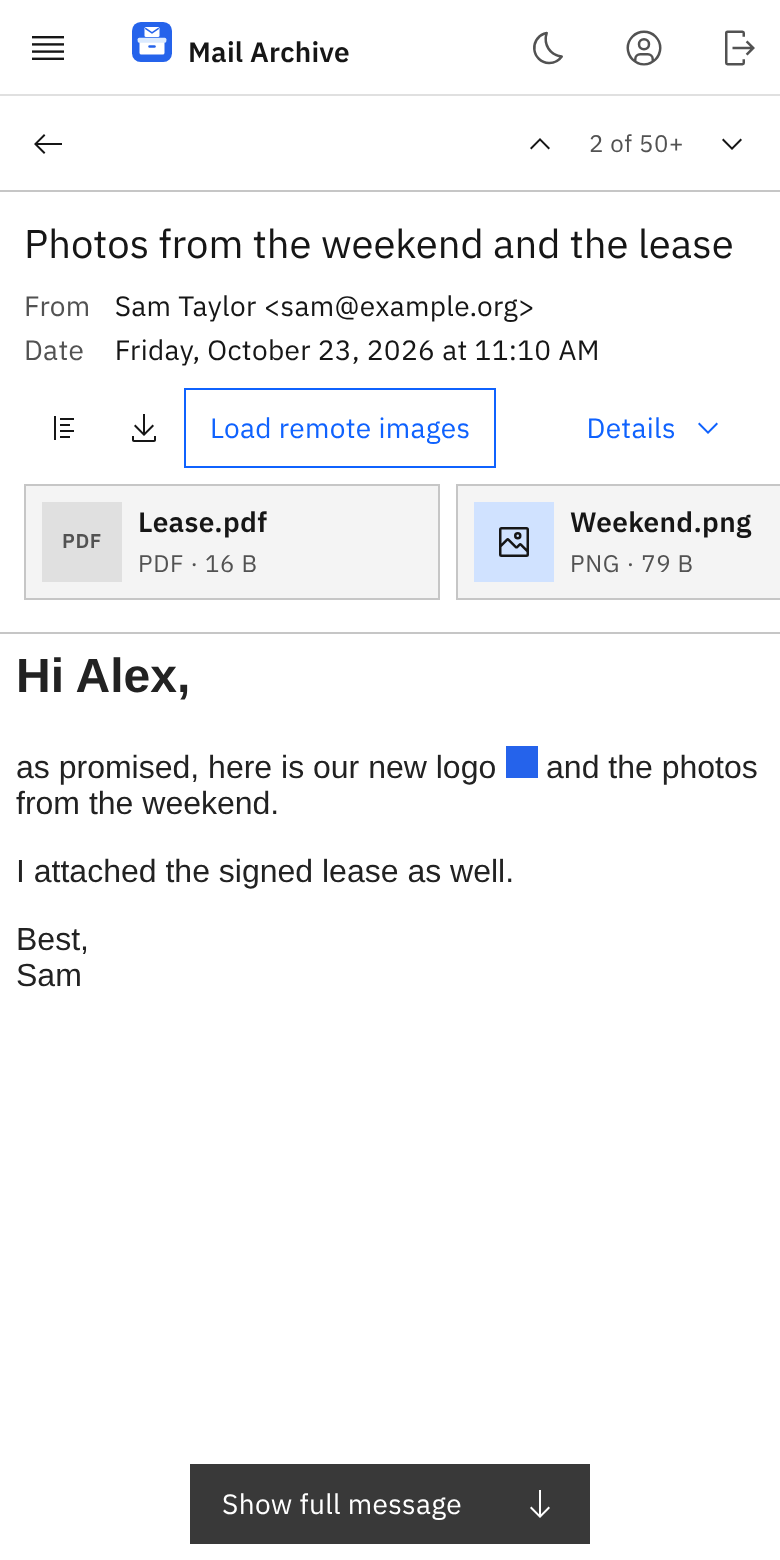
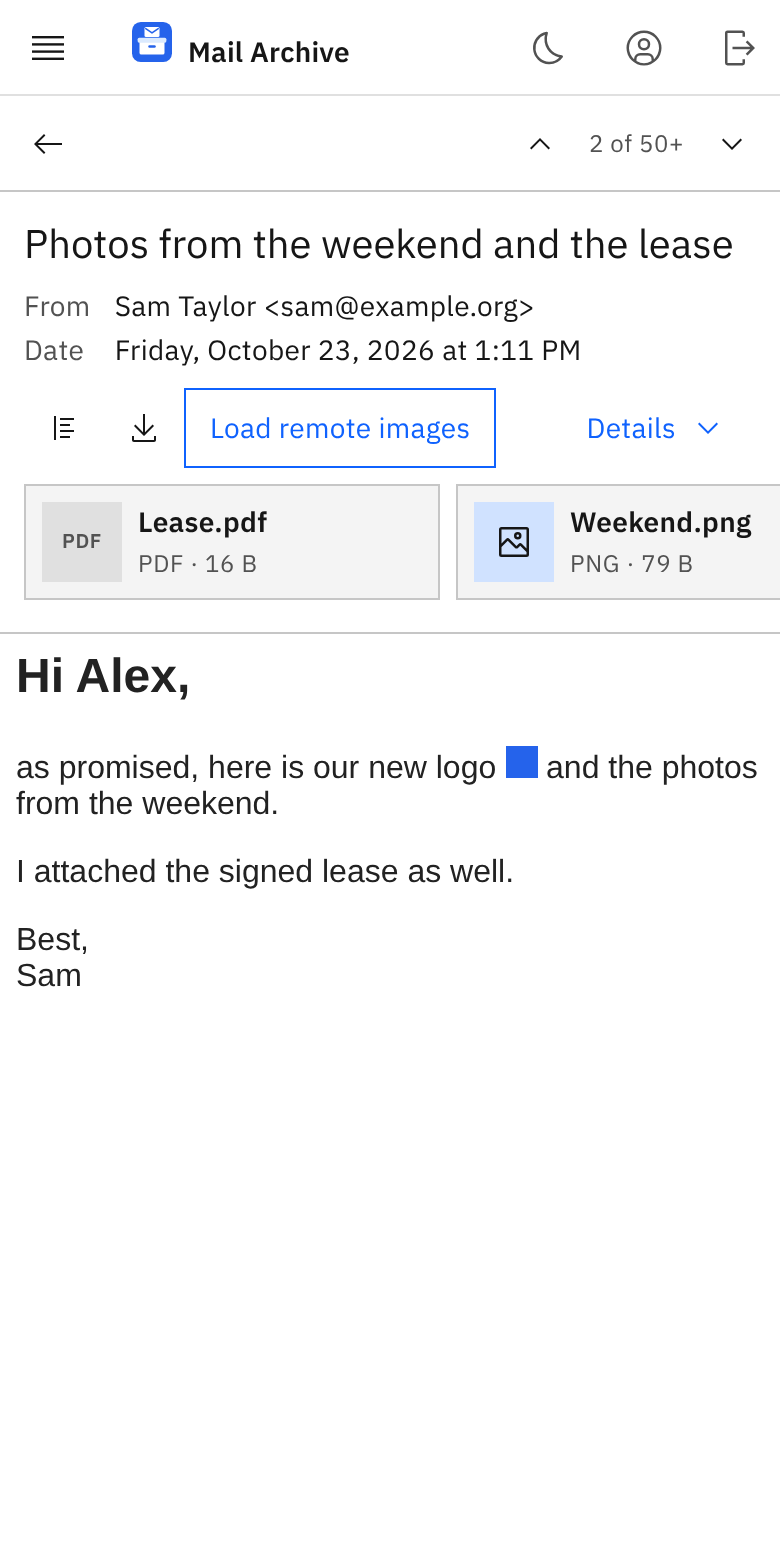
Docs: the auto-height mail frame and the Fetch Metadata guard (#204)
web-ui.md describes the frame that grows with the mail; security.md the
same-origin sandbox without scripts, the guard, the link blocker and the
residual risks; api.md the guard's 403. The mail screenshots lose the
"Show full message" hint.

Claude-Session: https://claude.ai/code/session_011ns8NYudpar28gs2YsWPd4

Changed region(s): [[0.2462, 0.9231, 0.7692, 1.0], [0.6769, 0.2154, 0.7692, 0.2462]]

diff --git a/docs/reference/api.md b/docs/reference/api.md
@@ -145,6 +145,25 @@ Requests with an API key need neither: the key is a header that a web page
 on another site cannot add, unlike a cookie, which the browser sends on its
 own. A body, where an endpoint reads one, must still be JSON.
 
+## Browser requests
+
+A browser says with its [Fetch Metadata](https://developer.mozilla.org/en-US/docs/Glossary/Fetch_metadata_request_header)
+headers what a request is for. Requests to `/api` answer `403`
+`{"error": "request not allowed from this context"}` when they are
+
+- a prefetch (`Sec-Purpose: prefetch`),
+- a navigation (`Sec-Fetch-Mode: navigate`, or `Sec-Fetch-Dest` `document`,
+  `iframe`, `frame`, `embed` or `object`), except a `GET` or `HEAD` of
+  `/api/messages/{id}/html`, `/api/messages/{id}/raw`,
+  `/api/messages/{id}/parts/{n}` and `/api/openapi.json`, or
+- for anything but a fetch (`Sec-Fetch-Dest` other than `empty`: an image,
+  a style sheet, a font and so on).
+
+The check comes first, so such a request writes no audit entry. It keeps an
+HTML mail, which runs with the app's origin, from reaching the API; see
+[HTML mail](./security#html-mail). Requests without these headers, from
+curl, scripts and API clients, are not affected.
+
 ## Audit log
 
 Searches, opened messages, downloads, logins and changes are recorded in the
@@ -187,7 +206,7 @@ See [`retention` and `hold`](./cli#retention) on the command line.
 | `GET /api/messages` | List or search messages, newest first. |
 | `GET /api/messages/{id}` | Headers, plain text, attachment list and every location (account, folder, UID, flags, `superseded`, `goneAt`, `lastSeenAt`). A superseded location is from before the folder's `UIDVALIDITY` changed (the server renumbered it); current locations come first. `goneAt` is when a [reconcile](../guide/syncing#reconcile) found the location missing on the server (`null` while it is there or before the folder was reconciled); `lastSeenAt` is when the server last listed it. Also `thread` (the thread key) and, for a reply, `inReplyTo` (the Message-ID it answers, without angle brackets). A location in an smtp account has an `envelope`: `mailFrom`, `rcptTo` (the original recipients, BCC included), `receivedAt`, `clientIp` and `helo`; other locations have `null`. `filled` is true for a location in an smtp account without an envelope: a [fill](#fills) copied it from IMAP or [`import --journal`](../guide/importing#into-an-smtp-account) imported it from files, so BCC recipients are unknown. `fill` names that fill and its mailbox, `{"id", "username", "host"}`; `import` names that import of files and its label, `{"id", "label"}`. Both are `null` for other locations, and when unknown. `retainUntil` is when the [retention period](./cli#retention) ends, per location and for the message (the latest over the user's locations); `null` when no rule covers a location, so it is kept for ever. Admins also get `onHold`. |
 | `GET /api/messages/{id}/conversation` | The conversation of the message; see below. `404` like `GET /api/messages/{id}`. |
-| `GET /api/messages/{id}/html[?images=1]` | The HTML body for a sandboxed iframe. Scripts are blocked; remote images only with `images=1`. Inline `cid:` images (PNG, JPEG, GIF, WebP; up to 10 MiB per message) are embedded as `data:` URLs; others become `data:,`. |
+| `GET /api/messages/{id}/html[?images=1]` | The HTML body for a sandboxed iframe. Scripts are blocked (`script-src 'none'`); the sandbox allows the same origin, so the web UI can size the frame to the mail, but never scripts. Remote images only with `images=1`. Inline `cid:` images (PNG, JPEG, GIF, WebP; up to 10 MiB per message) are embedded as `data:` URLs; others become `data:,`. Requests the frame makes to `/api` (images, links) are refused with `403`; see [Browser requests](#browser-requests). |
 | `GET /api/messages/{id}/raw` | The original `.eml`. |
 | `GET /api/messages/{id}/parts/{n}` | One attachment. PNG, JPEG, GIF and WebP are shown inline; everything else is a download. |
 

diff --git a/docs/reference/security.md b/docs/reference/security.md
@@ -208,17 +208,52 @@ applies.
 ### HTML mail
 
 HTML bodies are served for an iframe with a strict Content-Security-Policy
-and the `sandbox` directive: no scripts, no forms, no plugins, no access to
-the API. Remote content is blocked unless you click **Load remote images**
-for one message. Images embedded in the mail (`cid:`) are written into the
-HTML as `data:` URLs, so the frame makes no request to the server for them;
-`img-src` allows only `data:` (and `https:`/`http:` after **Load remote
-images**). Only PNG, JPEG, GIF and WebP are embedded, up to 10 MiB per
-message; SVG and every other type become an empty image. The frame has no
-origin of its own, so its requests carry no session cookie: the parts
-endpoint still requires a login and answers them with `401`.
+(`default-src 'none'; script-src 'none'`, no forms, no plugins) and the
+`sandbox` directive. Remote content is blocked unless you click **Load
+remote images** for one message. Images embedded in the mail (`cid:`) are
+written into the HTML as `data:` URLs, so the frame makes no request to the
+server for them; `img-src` allows only `data:` (and `https:`/`http:` after
+**Load remote images**). Only PNG, JPEG, GIF and WebP are embedded, up to
+10 MiB per message; SVG and every other type become an empty image.
 Attachments are served with `sandbox` as well; only common image types are
 shown inline, everything else is a download.
+
+The sandbox allows the frame the app's origin (`allow-same-origin`) but
+never scripts, in the iframe's attribute and in the response's own CSP,
+which also applies when the URL is opened on its own. The web UI needs the
+same origin to read the height of the mail and make the frame as tall as
+it, so the message scrolls as one page. No script runs in the mail: the
+sandbox has no `allow-scripts`, and `script-src 'none'` is a second layer.
+The accepted cost: if a browser bug ever ran script in the frame, it would
+run with the app's origin and could use the API.
+
+With the same origin, requests the mail itself makes to the server carry
+the session cookie: an image on the app's own address (after **Load remote
+images**, `https:` matches it) or a link to it. Nobody can read the
+answers, but they would leave audit entries in your name, and some open
+IMAP connections. Two layers stop them:
+
+- The server refuses `/api` requests by their
+  [Fetch Metadata](https://developer.mozilla.org/en-US/docs/Glossary/Fetch_metadata_request_header)
+  with `403`, before anything is done or logged: every request that is not
+  a fetch of the app (an image, style, font, prefetch and so on), and every
+  navigation (a link, a frame) except to the routes a browser opens:
+  `GET /api/messages/{id}/html`, `…/raw`, `…/parts/{n}` and
+  `/api/openapi.json`. Requests without these headers (scripts, API
+  clients) are not affected.
+- The web UI cancels clicks on links in the mail that point into the app.
+
+What remains:
+
+- The context menu's "Open link in new tab", or dragging a link to the
+  tab bar, cannot be intercepted. On the four routes above it can open or
+  download a message, a part or an `.eml` whose id (SHA-256) the mail's
+  author already knows. That writes an audit entry in your name and saves
+  a file to your device, but tells the author nothing.
+- Browsers without Fetch Metadata (Safari before 16.4) do not send the
+  headers, so the server cannot tell these requests apart: there, after
+  **Load remote images**, an image in the mail can make such requests, and
+  so can a link opened from the context menu.
 
 ### Login checks
 

diff --git a/docs/guide/web-ui.md b/docs/guide/web-ui.md
@@ -133,14 +133,12 @@ folder is compared once a day. See [Reconcile](./syncing#reconcile).
 A message scrolls as one unit: the reading pane next to the list, or the
 whole page on a phone. Header, conversation and text move together.
 
-HTML mail is shown in a sandboxed frame: no scripts, no forms, no plugins.
-The frame cannot grow with the mail, so it is as tall as the visible area.
-Scroll down until it fills that area; from there the mail scrolls inside
-it. Until then the frame does not react to the mouse or touch: scrolling
-over it moves the message, and **Show full message** at the bottom, or a
-click on the mail, scrolls it fully into view first. So the first click
-on a link or the start of a text selection in a mail that is not fully
-shown only scrolls; the next one works as usual.
+HTML mail is shown in a sandboxed frame that grows with the mail: no
+scripts, no forms, no plugins. The message scrolls as one page, and links
+in the mail work on the first click; they open in a new tab. Links from a
+mail into the archive itself are not followed. A few mails are taller than
+any frame (for example a picture as high as the window); those, and very
+long ones, keep the height of the visible area and scroll inside it.
 **Remote images stay blocked** because they tell the sender that you opened
 the message (tracking pixels). Click **Load remote images** for one message
 to allow them. Images embedded in the message (`cid:`) are always shown if
